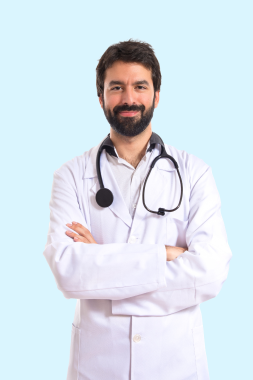
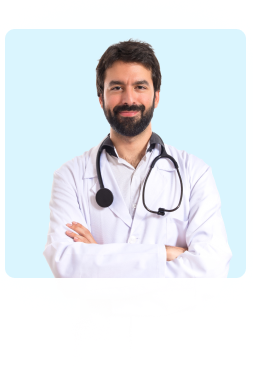
footer added

diff --git a/index.html b/index.html
@@ -76,7 +76,7 @@
     <main class="container mt-5">
 
         <!-- Easy step solution -->
-        <section class="easy-step">
+        <section class="easy-step mb-5">
             <h2 class="text-center">3 Easy Steps and Get Your Solution</h2>
             <div class="boxes">
                 <div class="box text-center">
@@ -128,7 +128,7 @@
 
         <!-- service section -->
 
-        <section class="service-section mt-5">
+        <section class="service-section">
             <h2 class="text-center">Our Service</h2>
             <p class="text-center">Our doctors have high qualified skills and are guaranteed <br> to help you recover from
                 your disease.</p>
@@ -155,55 +155,60 @@
         </section>
 
         <!-- online doctors section -->
-        <section class="online-doctors mt-5">
+        <section class="online-doctors">
             <h2 class="text-center">Meet Our Certified Online Doctors</h2>
-            <p class="text-center"> Our online doctors have an average of 15 years experience <br> and a 98%
+            <p class="text-center mb-5"> Our online doctors have an average of 15 years experience <br> and a 98%
                 satisfaction
                 rating, they really set us apart!</p>
-            <div class="doctors">
+            <div class="doctors text-center">
                 <div class="doctor">
                     <img src="images/doctor-linda.png" alt="">
-                    <h6>Dr Amanda Linda </h6>
+                    <h6 class="mt-3">Dr Amanda Linda </h6>
                     <p>Neurology Specilist</p>
                     <div class="icons">
-                        <i class="bi bi-facebook"></i>
-                        <i class="bi bi-twitter"></i>
-                        <i class="bi bi-linkedin"></i>
+                        <i class="bi bi-facebook me-2"></i>
+                        <i class="bi bi-twitter me-2"></i>
+                        <i class="bi bi-linkedin me-3"></i>
                     </div>
                 </div>
                 <div class="doctor">
-                    <img src="images/dr-alisa.png" alt="">
-                    <h6>Dr. Alisa Rahman</h6>
+                    <img class="image-3" src="images/dr-alisa.png" alt="">
+                    <h6 class="mt-3">Dr. Alisa Rahman</h6>
                     <p>Carddiologist Specilist</p>
                     <div class="icons">
-                        <i class="bi bi-facebook"></i>
-                        <i class="bi bi-twitter"></i>
-                        <i class="bi bi-linkedin"></i>
+                        <i class="bi bi-facebook me-2"></i>
+                        <i class="bi bi-twitter me-2"></i>
+                        <i class="bi bi-linkedin me-3"></i>
                     </div>
                 </div>
                 <div class="doctor">
-                    <img src="images/dr-antony.png" alt="">
-                    <h6>Dr. Anthony Fauci</h6>
-                    <p>Neurology Specilist</p>
-                    <div class="icons">
-                        <i class="bi bi-facebook"></i>
-                        <i class="bi bi-twitter"></i>
-                        <i class="bi bi-linkedin"></i>
-                    </div>
-                </div>
-                <div class="doctor">
-                    <img src="images/dr-khalid.png" alt="">
-                    <h6>Dr. Khalid Abbed </h6>
+                    <img src="images/dr-khalid (1).png" alt="">
+                    <h6 class="mt-3">Dr. Khalid Abbed </h6>
                     <p>Cancer Specilist</p>
                     <div class="icons">
-                        <i class="bi bi-facebook"></i>
-                        <i class="bi bi-twitter"></i>
+                        <i class="bi bi-facebook me-2"></i>
+                        <i class="bi bi-twitter me-2"></i>
                         <i class="bi bi-linkedin"></i>
                     </div>
                 </div>
+                <div class="doctor">
+                    <img src="images/doctor-linda.png" alt="">
+                    <h6 class="mt-3">Dr Amanda Linda </h6>
+                    <p>Neurology Specilist</p>
+                    <div class="icons">
+                        <i class="bi bi-facebook me-2"></i>
+                        <i class="bi bi-twitter me-2"></i>
+                        <i class="bi bi-linkedin me-3"></i>
+                    </div>
+                </div>
+               
             </div>
-            <a href="#">Explore All Doctors</a>
+            <div class="buttun text-center">
+                <a href="#">Explore All Doctors</a>
+            </div>
         </section>
+        
+        
 
         <!-- app section -->
         <section class="app-section">
@@ -211,7 +216,7 @@
                 <div class="col">
                     <img class="img-fluid" src="images/mobile-mockup.png" alt="">
                 </div>
-                <div class="col align-self-center">
+                <div class="col-sm-12 col-md-6 align-self-center">
                     <h2>Mobile apps are available <br>
                         Get HealthCare for free!
                     </h2>
@@ -234,7 +239,7 @@
                     <a href="#">Book an Appoinment </a>
                 </div>
                 <div class="booking-img">
-                    <img src="images/smiling-young-female-doctor-wearing-medical-robe-with-stethoscope-spreading-hand-isolated-green-wall 1.png"
+                    <img class="img-fluid" src="images/smiling-young-female-doctor-wearing-medical-robe-with-stethoscope-spreading-hand-isolated-green-wall 1.png"
                         alt="">
                 </div>
             </div>
@@ -245,7 +250,7 @@
     <footer class="container">
 
         <div class="row">
-            <div class="col">
+            <div class="col col-5 footer-logo">
                 <h2>HEALTCARE</h2>
                 <p>Metairie, 3689 Bassel Street, LA, Louisiana</p>
                 <p>Contact us: 225-788-5489</p>
@@ -274,10 +279,21 @@
             <div class="col">
                 <h4>Subscribe newsletter</h4>
                 <p>Sign up for tips, new destinations, and exclusive promos.</p>
-                <input type="email" name="" id="">
-                <button class="btn btn-primary">Subscribe</button>
+                <input type="email" name="" id="" placeholder="Enter your email">
+                <button class="btn btn-primary mt-2">Subscribe</button>
             </div>
         </div>
+
+        <div class="d-flex flex-column flex-sm-row justify-content-between py-4 my-4 border-top">
+            <p>&copy; 2022 Company, Inc. All rights reserved.</p>
+            <ul class="list-unstyled d-flex gap-5">
+              <li class="ms-3">Privacy</li>
+              <li class="ms-3">Security</li>
+              <li class="ms-3">Terms</li>
+            </ul>
+          </div>
+        </footer>
+      </div>
 
     </footer>
 

diff --git a/styles/style.css b/styles/style.css
@@ -78,6 +78,7 @@ header {
     display: grid;
     grid-template-columns: repeat(3, 1fr);
     gap: 10px;
+    margin-bottom: 4rem;
 }
 
 .box {
@@ -103,11 +104,14 @@ header {
         padding: 0 5rem;
         gap: 0px;
     }
-
 }
 
 /* service section */
-.service-section p{
+.service-section{
+    margin-top: 7rem;
+}
+
+.service-section p {
     color: #777778;
 }
 
@@ -120,20 +124,71 @@ header {
 }
 
 /* online doctor section */
-.online-doctors h2 {
-    font-size: 42px;
-     line-height: 49px;
-     letter-spacing: 2%;
+.online-doctors {
+    margin-top: 6rem;
 }
 
-.online-doctors p{
+.online-doctors h2 {
+    font-size: 42px;
+    line-height: 49px;
+    letter-spacing: 2%;
+}
+
+.online-doctors p {
     color: #777778;
 }
 
+.buttun {
+    margin: 6rem 0;
+}
+
+.buttun a{
+    text-decoration: none;
+    background-color: #0d6efd;
+    color: white;
+    padding: 0.5rem 1rem;
+    border-radius: 7px;
+}
+
 .doctors {
-    background-color: aquamarine;
     display: grid;
     grid-template-columns: repeat(4, 1fr);
+    gap: 5px;
+}
+
+.doctor img {
+    width: 200px;
+    height: 230px;
+    border-radius: 10px;
+}
+
+.image-3 {
+    width: 200px;
+    height: 230px;
+    color: #b4e6de;
+}
+
+@media (max-width: 767.98px) {
+    .doctors {
+        display: grid;
+        grid-template-columns: repeat(2, 1fr);
+    }
+}
+
+@media (max-width: 575.98px) {
+    .doctors {
+        display: grid;
+        grid-template-columns: repeat(1, 1fr);
+    }
+}
+
+.app-section{
+    margin-bottom: 6rem;
+}
+
+/* booking section */
+.booking-section{
+    margin-bottom: 10rem;
 }
 
 .booking {
@@ -143,3 +198,11 @@ header {
 
 
 /* footer */
+.footer-logo h2{
+    color: #55ADF9;
+}
+
+.copyright{
+    display: grid;
+    grid-template-columns: repeat(2 1fr);
+}
